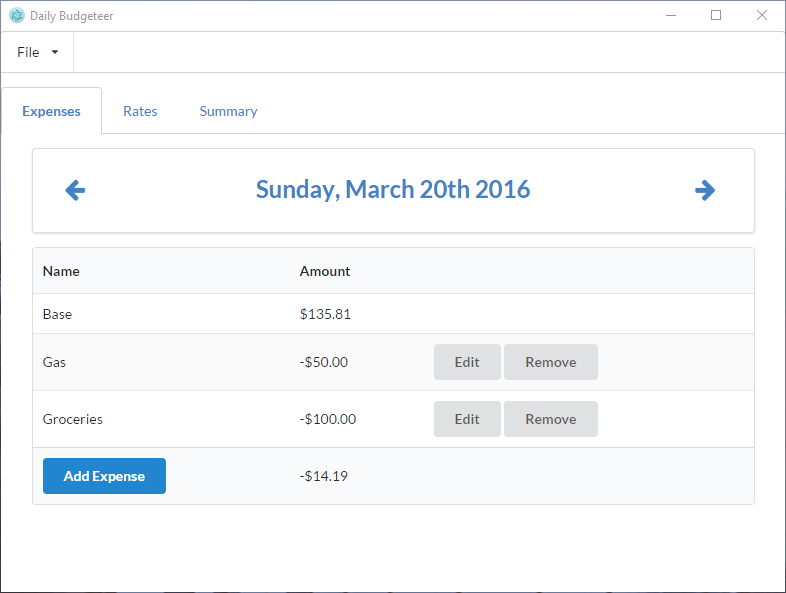
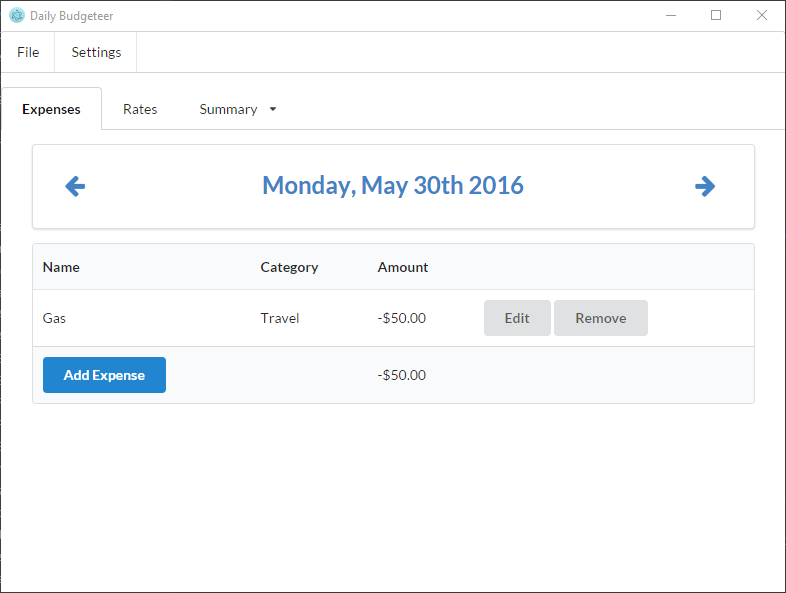
Updated the readme to describe the categories a little.

diff --git a/README.md b/README.md
@@ -18,7 +18,15 @@ When the Per Day value of the rate is calculated it will be based on the number 
 
 ![RatesList ](/readme-images/Rates-Examples.PNG)
 
-Then add expenses as they occur. Again, make sure to use negative values as appropate. 
+Then add expenses as they occur. Again, make sure to use negative values as appropriate. Optionally, add a category to the expense.
+
+![Categories](/readme-images/Categories-Examples.PNG)
+
+Categories are used to group expenses and the category graph shows the last week of expenses by category. The available categories can be adjusted by selecting `Categories` in the `Settings` menu. 
+
+![Category Graph](/readme-images/Categories-Graph.PNG)
+
+Once an expense is added it will display in a list with the rest of the days expenses.
 
 ![Expenses](/readme-images/Expenses-Examples.PNG)
 
